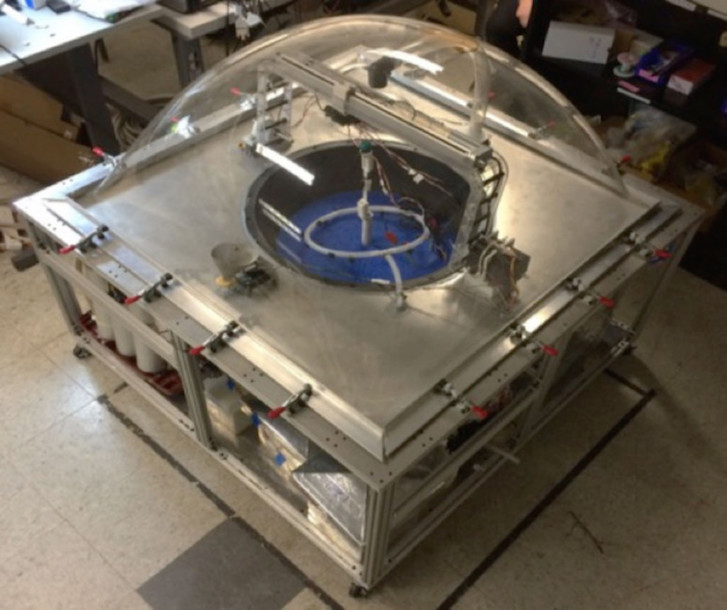
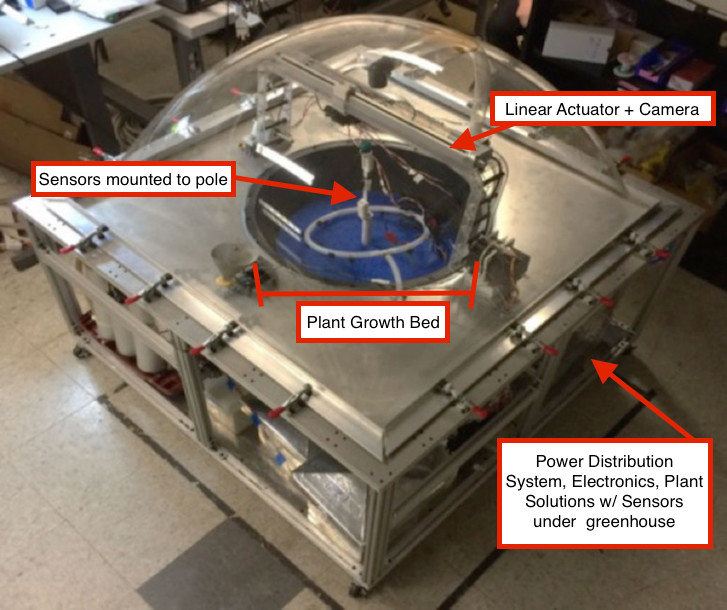
notes to videos and captions to greenhouse image

diff --git a/projects.html b/projects.html
@@ -62,7 +62,7 @@
                                     <a class="image featured"><img height = "350" src="images/greenhouse_3.jpg" alt="" /></a>
                                 </article>
                                 <article class="4u 12u(mobile) special">
-                                    <a class="image featured"><img height = "350" src="images/greenhouse_4.jpg" alt="" /></a>
+                                    <a class="image featured"><img height = "350" src="images/greenhouse_4.png" alt="" /></a>
                                 </article>
                             </div>
                             <p>
@@ -99,7 +99,7 @@
                                     <a href="images/strobe_water_9.jpg" class="image featured"><img height = "350" src="images/strobe_water_9.jpg" alt="" /></a>
                                 </article>
                             </div>
-                            <iframe width="420" height="315" align="left" style = "float:left;padding-right:25px;border:none" src="https://www.youtube.com/embed/zK1hnJWMekg" frameborder="0" allowfullscreen></iframe>
+                            <iframe width="420" height="315" align="left" style = "float:left;padding-right:25px;border:none" src="https://www.youtube.com/embed/zK1hnJWMekg" frameborder="0" ALT="reload page if you see this message" allowfullscreen></iframe>
                             <p>
                             <b> What happens when you put together strobe lights and oscillating water? </b>During my senior year of MIT, I designed and built a strobe water lab with an instrument-based control paradigm. I wanted to add an interesting control paradigm using an instrument to the typical <a href="https://www.youtube.com/watch?v=oqUNd5wPGbU"><b>Strobing Water Museum Display</b></a>.</p>
                             <p> <b>Structure: </b>I constructed a waterproof, acrylic box in the AeroAstro machine shop and MIT Cypress Engineering Design Studio. I soldered together LEDS and wrote 8051 assembly code to strobe them at a fixed freq of 80Hz. The LED panels were fixed to the box such that they were directed at streams of water that were being pulsed by two speakers.</p>

diff --git a/research.html b/research.html
@@ -119,7 +119,7 @@
                             <header>
                                 <h3>NASA/Caltech Jet Propulsion Lab: Robotics Controls for BioSleeve </h3>
                             </header>
-                            <iframe width="560" height="315" align="left" style = "float:left;padding-right:25px;border:none" src="https://www.youtube.com/embed/vRDQlCUanGA" frameborder="0" allowfullscreen></iframe>
+                            <iframe width="560" height="315" align="left" style = "float:left;padding-right:25px;border:none" src="https://www.youtube.com/embed/vRDQlCUanGA" frameborder="0" ALT="reload page if you see this message" allowfullscreen></iframe>
                             <p>
                             The BioSleeve is a wearable sleeve of EMG electrodes. My contribution to the project involved using machine-learning algorithms (support vector machines) to decode gestures carried out while wearing the sleeve to commands on a robot. The purpose of this project was to create a hands-free robotics control paradigm and apply the work to prosthetic hands. The work done over the summer led to a publication in IEEE for Robotics and Automation
 
